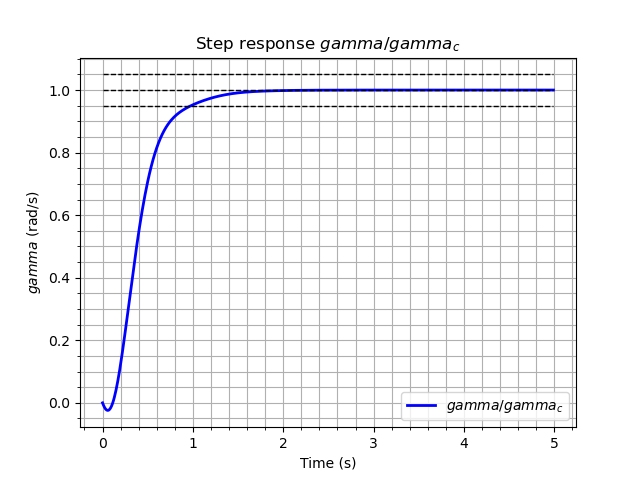
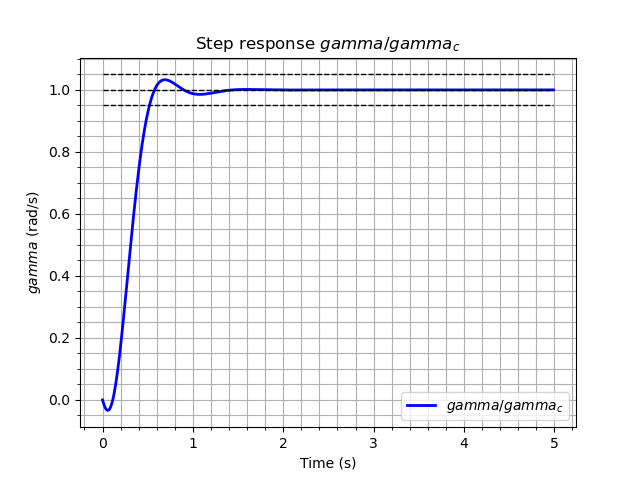
Update v3.01.2025:3

Changed region(s): [[0.0625, 0.1562, 0.875, 0.875]]

diff --git a/lib/control_aircraft_model.py b/lib/control_aircraft_model.py
@@ -590,7 +590,7 @@ class ControlAircraftModel:
 
             
             #calcule of the gamma stape space representation 
-            self.gain_Kg = 16.4 #sisopy31.sisotool(self.TF_gamma) #16.4 #sisopy31.sisotool(1 * minreal(self.TF_gamma))
+            self.gain_Kg = 22.76959 #sisopy31.sisotool(self.TF_gamma)
             self.matrix_A_gamma = self.matrix_A_q - self.gain_Kg * np.dot(self.matrix_B_q, self.matrix_C_gamma)
             self.matrix_B_gamma = self.gain_Kg * self.matrix_B_q
             self.matrix_D_gamma = self.gain_Kg * self.matrix_D
@@ -639,7 +639,7 @@ class ControlAircraftModel:
                 fig_name="Step_Response_z_ol",
             )            
             
-            self.gain_Kz = 0.0010 #sisopy31.sisotool(1 * minreal(self.TF_z)) #0.0010 #sisopy31.sisotool(1 * minreal(self.TF_z))
+            self.gain_Kz = sisopy31.sisotool(1 * minreal(self.TF_z)) # 0.0010 #sisopy31.sisotool(1 * minreal(self.TF_z)) #0.0010 #sisopy31.sisotool(1 * minreal(self.TF_z))
             self.matrix_A_z = self.matrix_A_gamma - self.gain_Kz * np.dot(self.matrix_B_gamma, self.matrix_C_z)
             self.matrix_B_z = self.gain_Kz * self.matrix_B_gamma
             self.matrix_D_z = self.gain_Kz * self.matrix_D
